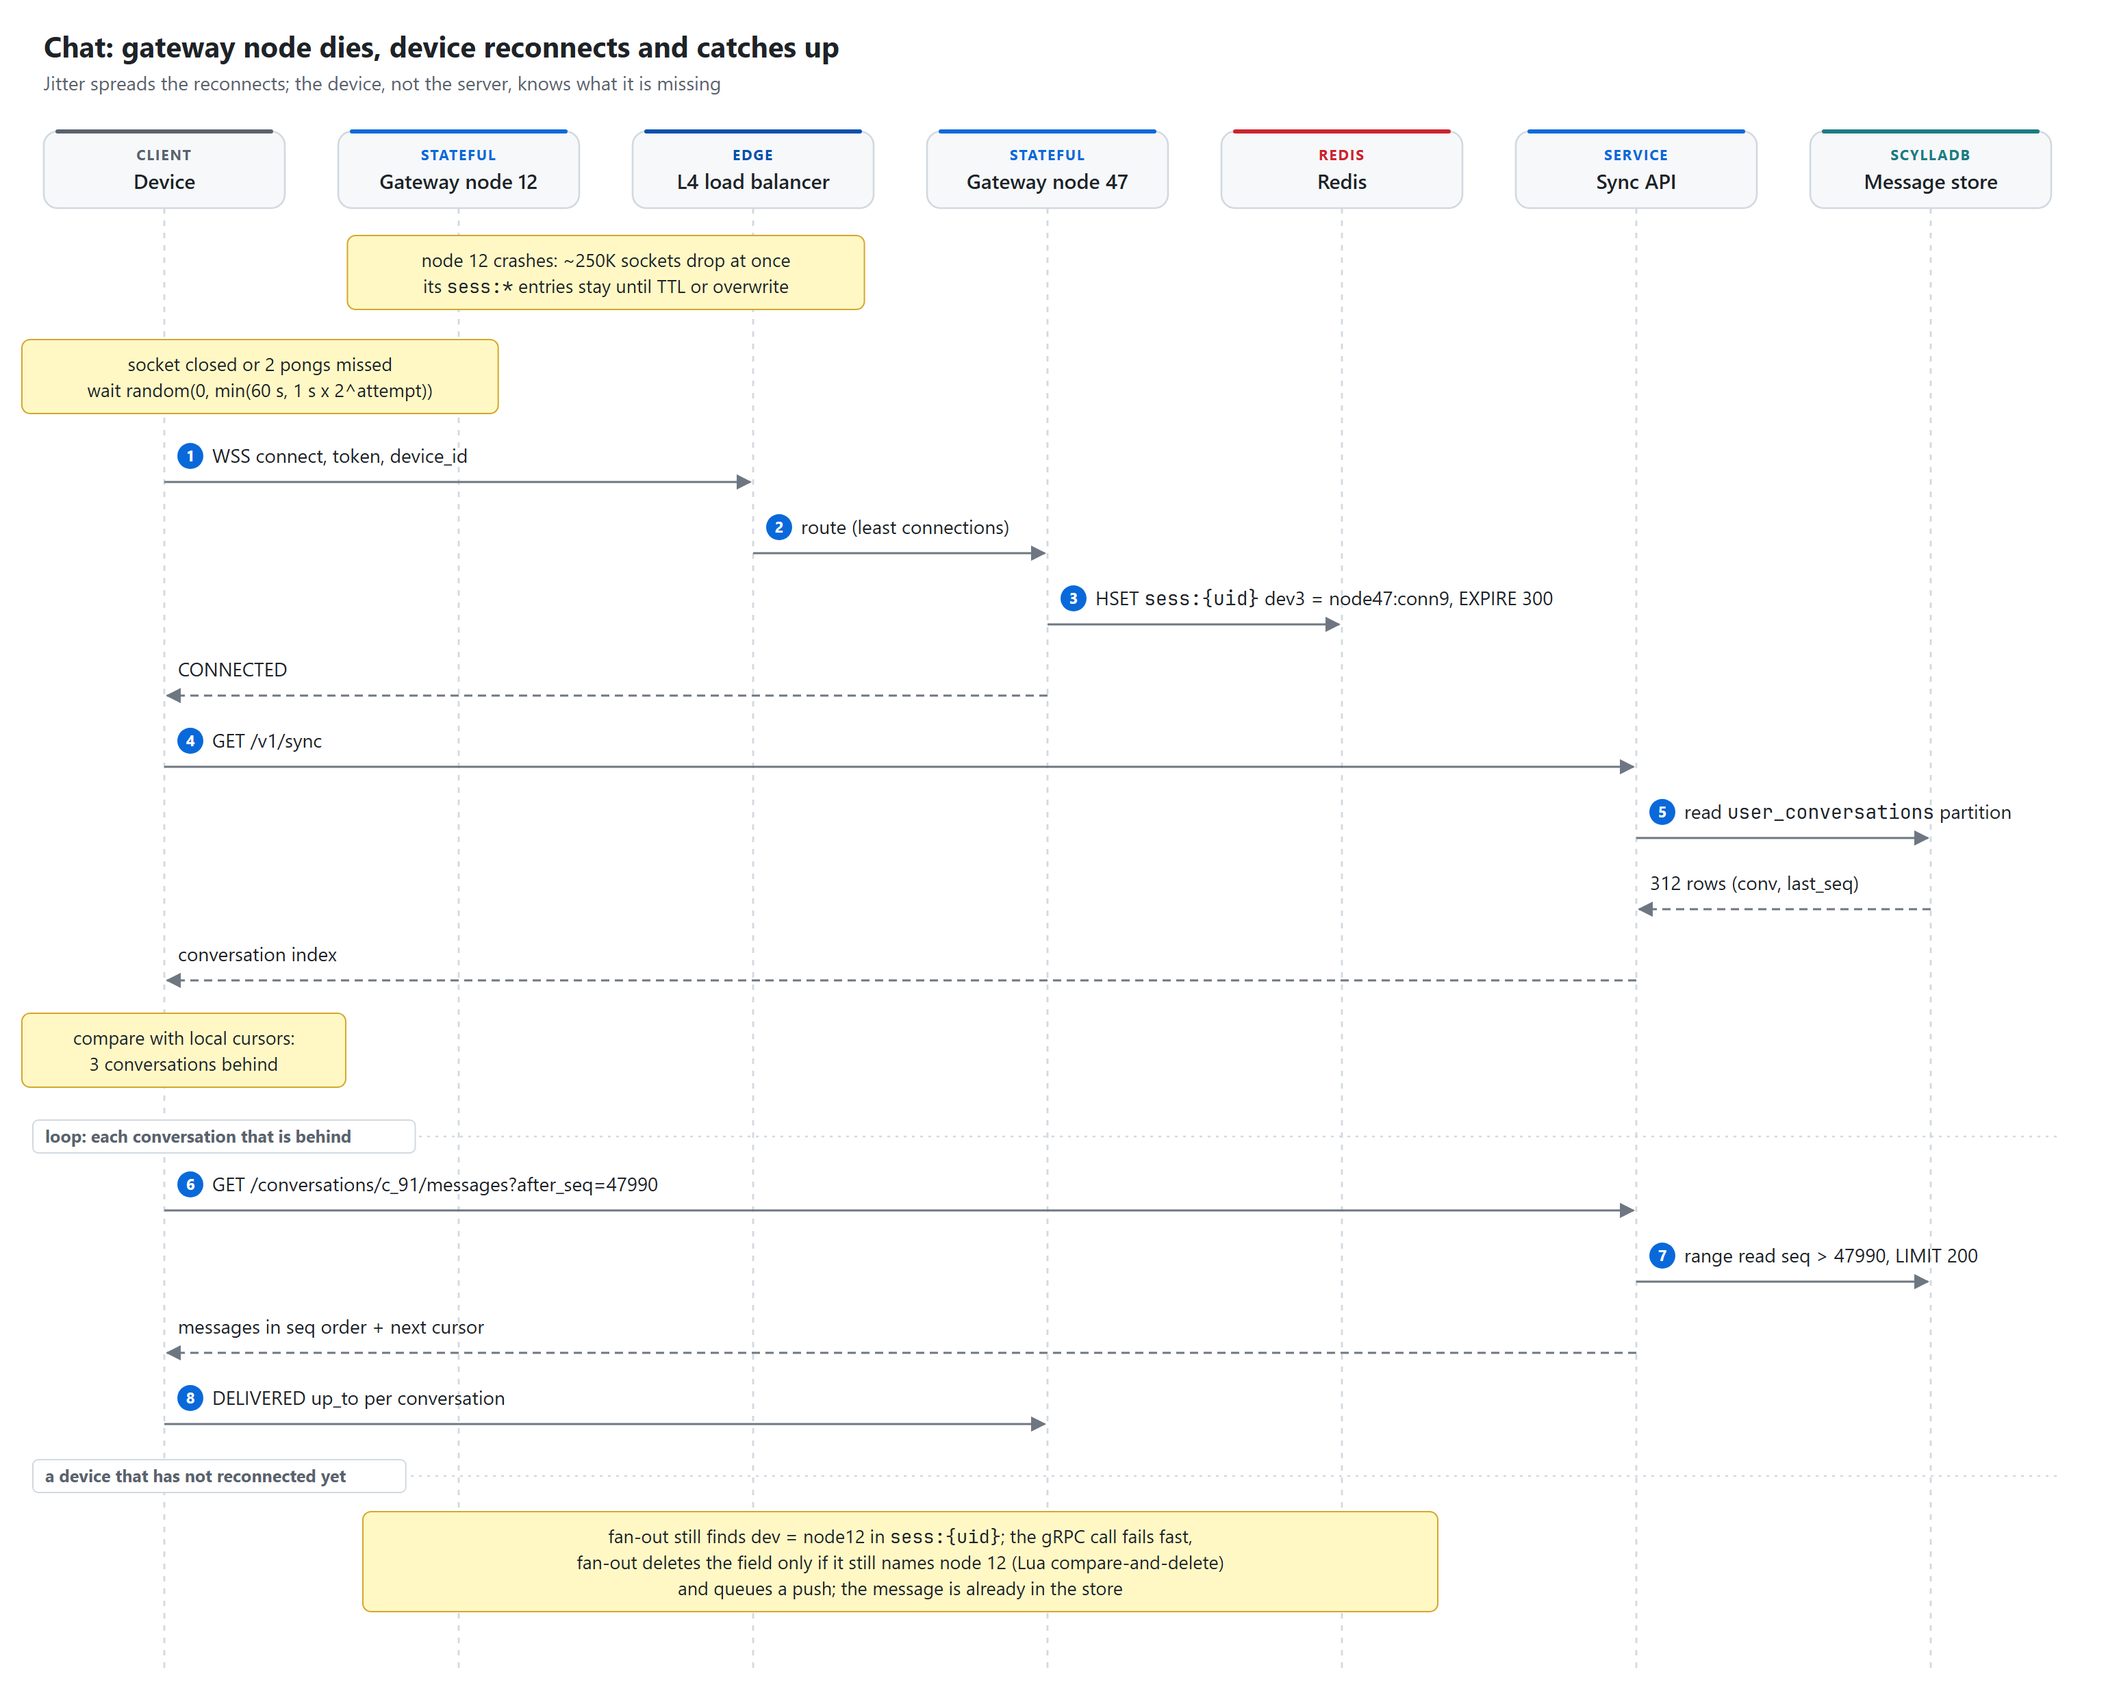
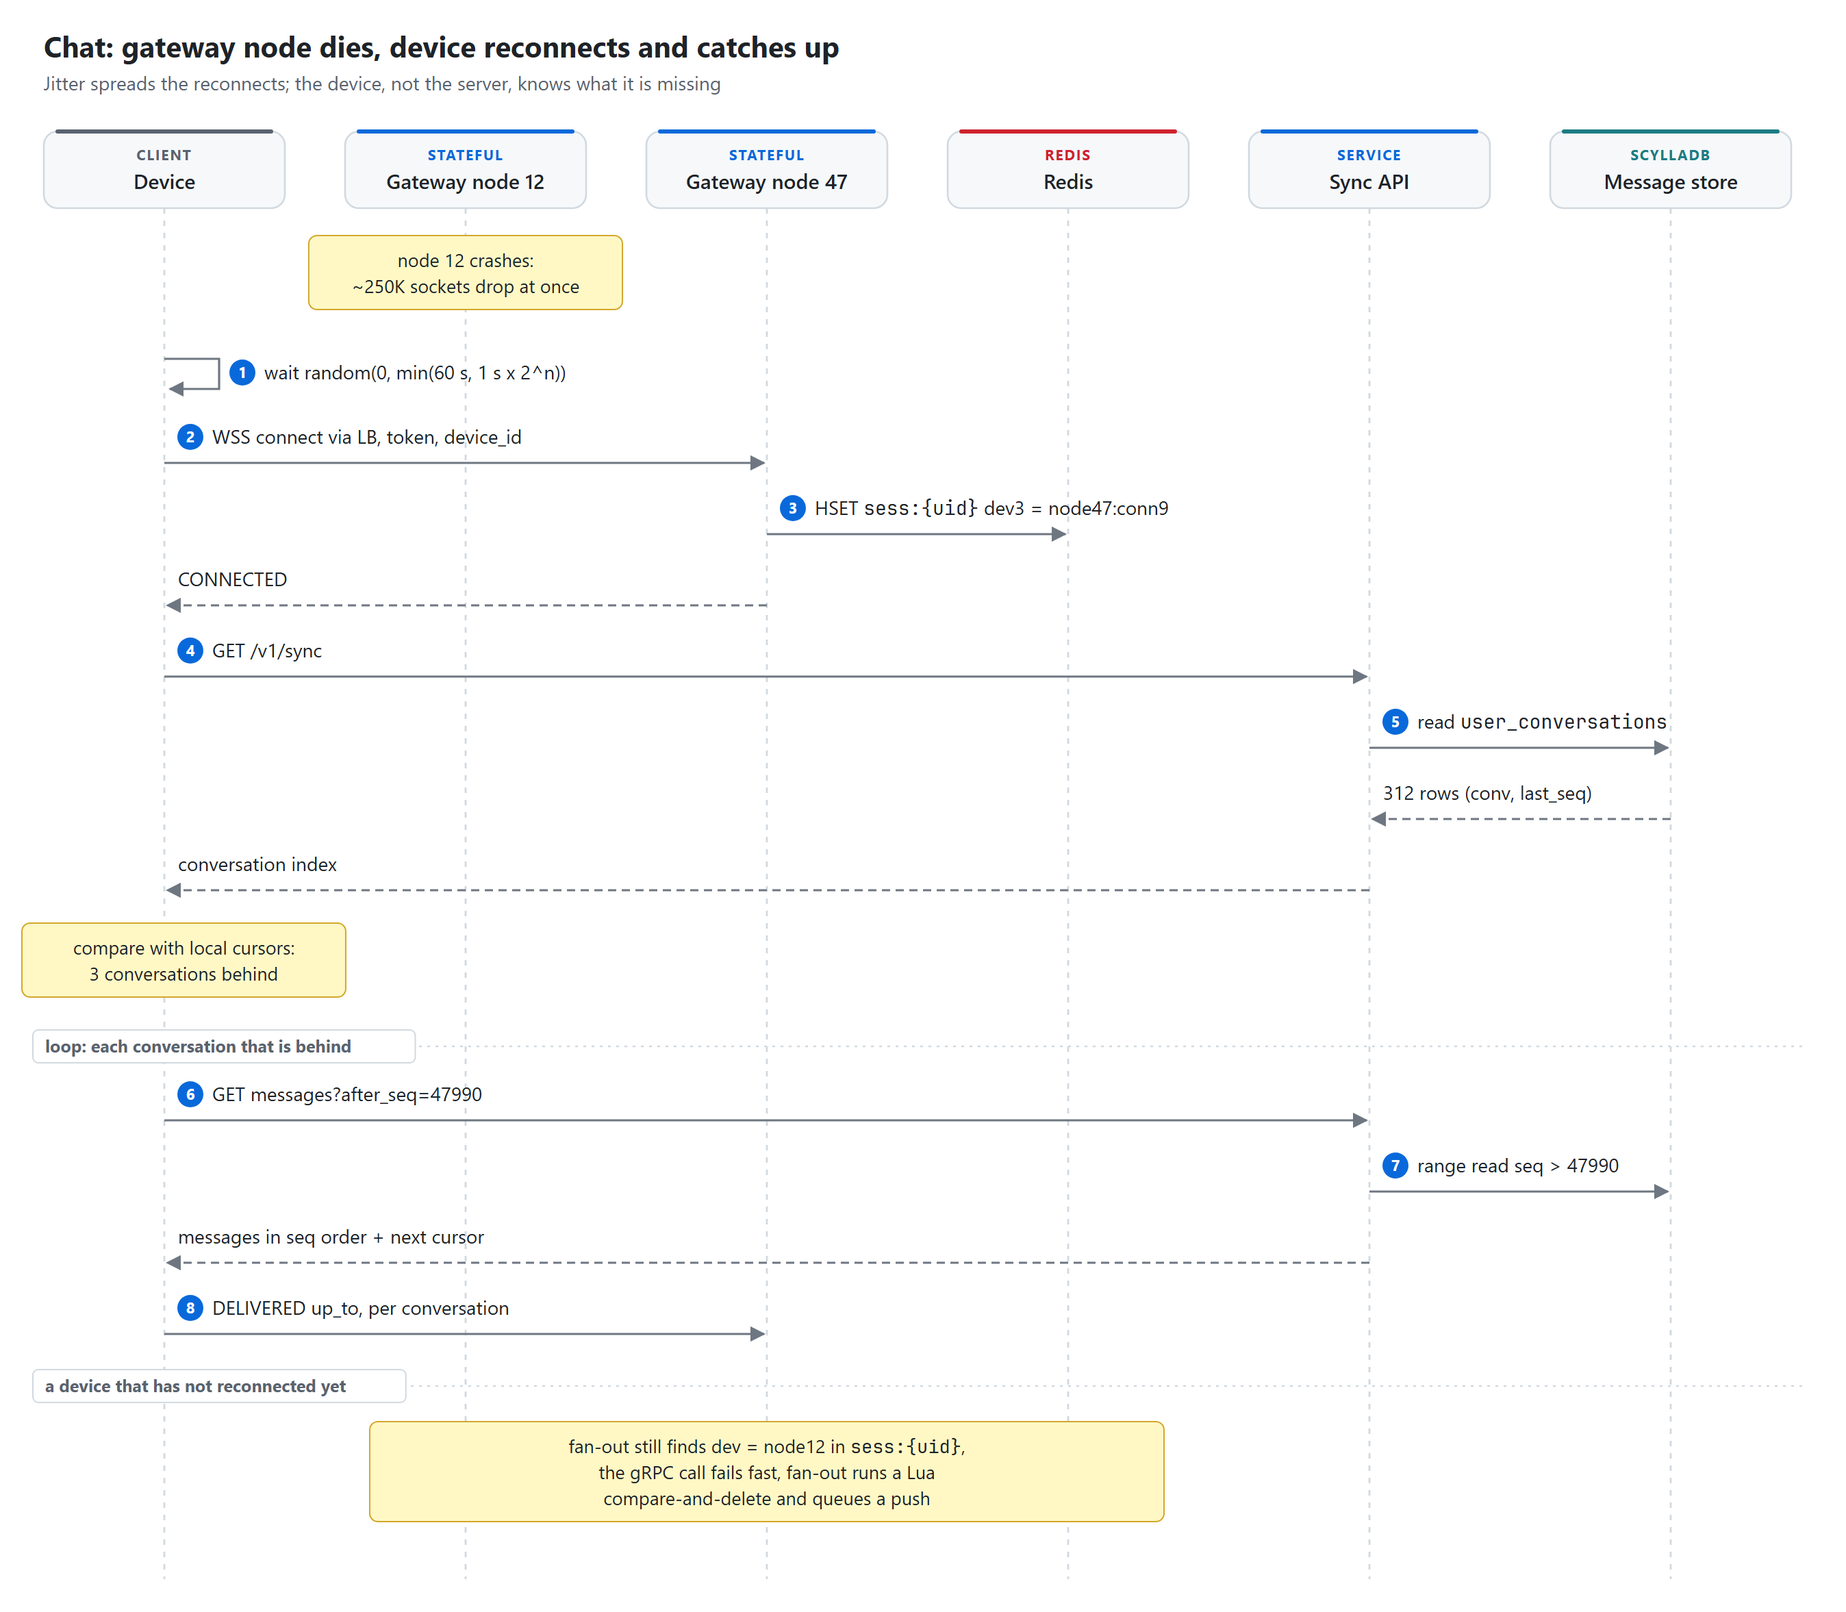
Draw the chat flows as sequence diagrams

diff --git a/designs/messaging-and-realtime/chat/README.md b/designs/messaging-and-realtime/chat/README.md
@@ -300,24 +300,30 @@ key and partition count, so the same Message service instance owns a conversatio
 
 ### 6.1 Send to an online and an offline recipient
 
+Two diagrams: the send path up to the store, then delivery.
+
 <picture>
   <source media="(prefers-color-scheme: dark)" srcset="diagrams/send-message-dark.png">
-  <img alt="Sequence: sender sends to gateway A, which produces to Kafka and acks with the offset as seq. The Message service dedupes and writes to ScyllaDB, then publishes to chat.persisted. Fan-out looks up members and sessions in Redis. Online: delivers through gateway B, the device acks delivery, and a receipt flows back. Offline: a push request wakes the app, which syncs after its cursor." src="diagrams/send-message-light.png">
+  <img alt="Sequence: the sender sends to gateway A, which checks the rate limit, produces to Kafka keyed by conversation and acks with the offset as seq. The Message service polls the partition, dedupes on client_msgs, writes to ScyllaDB at quorum, produces to chat.persisted and commits its offset. Fan-out consumes the event." src="diagrams/send-message-light.png">
 </picture>
 
-1. Device A sends `send` with a fresh `client_msg_id`. Gateway A checks the rate limit and that A is in
-   `members:{conv}` (a fast pre-check; the Message service makes the binding check).
-2. Gateway A produces to `chat.inbound` with key = conversation id, `acks=all`. Kafka returns offset 48211.
-3. Gateway A replies `ack seq 48211`. One tick: the message is now on two or more brokers.
-4. The Message service instance that owns the partition reads the record. It checks `client_msgs`; this is
-   a new id.
-5. It writes the `messages` row, the `client_msgs` row, `conversation_heads`, and one `user_conversations`
-   row per member (skipped for groups over 100), all at `LOCAL_QUORUM`, then produces to `chat.persisted`.
-6. A fan-out worker reads the event, gets the member list and each member's `sess:{uid}` in one pipeline.
-7. Online recipient: one gRPC batch per gateway node. Gateway B writes the `msg` frame with `prev_seq`.
-   Device B stores it, acks `delivered up_to 48211`, and the receipt reaches A as the second tick.
-8. Offline recipient (no session): fan-out produces to `push.requests`. A push worker collapses per
-   conversation and calls APNs or FCM. The app wakes, connects and runs the catch-up in 6.2.
+- **1-2.** Device A sends with a fresh `client_msg_id`; gateway A checks the rate limit and membership cache.
+- **3.** Gateway A produces to `chat.inbound`, key = conversation id, `acks=all`, and acks the device with the
+  offset as seq. One tick: the message is on two or more brokers.
+- **4-5.** The partition's owner reads the record and dedupes on `client_msgs`.
+- **6.** Quorum writes, in seq order for that conversation.
+- **7-9.** It publishes to `chat.persisted`, commits its input offset, and fan-out picks the event up.
+
+<picture>
+  <source media="(prefers-color-scheme: dark)" srcset="diagrams/deliver-message-dark.png">
+  <img alt="Sequence: fan-out reads the member list and session hashes from Redis. If the recipient is online it sends a gRPC batch to gateway B, which writes the frame; the device acks delivery and the gateway produces a receipt. If offline, fan-out produces a push request, a push worker collapses and calls APNs or FCM, and the woken app connects and syncs after its cursor." src="diagrams/deliver-message-light.png">
+</picture>
+
+- **1-2.** Fan-out gets the members and their `sess:{uid}` hashes in one pipeline.
+- **3-4.** Online: one gRPC batch per gateway node; gateway B writes the frame with `prev_seq`.
+- **5-6.** The device acks a watermark; the receipt becomes the sender's second tick.
+- **7-9.** Offline (no session): a push request, collapsed per conversation, sent to APNs or FCM.
+- **10.** The app wakes and runs the catch-up in 6.2.
 
 The sender's own other devices are members too, so they receive the message the same way.
 
@@ -325,25 +331,30 @@ The sender's own other devices are members too, so they receive the message the 
 
 <picture>
   <source media="(prefers-color-scheme: dark)" srcset="diagrams/reconnect-sync-dark.png">
-  <img alt="Sequence: a gateway node dies; the device waits a jittered backoff, reconnects through the load balancer to another node, which overwrites its entry in the Redis session hash. The device fetches its conversation index from the Sync API, compares it with local cursors, pulls messages after its cursor for each conversation that is behind, and acks delivery. A stale session entry for a device that has not reconnected is removed by fan-out with a compare-and-delete." src="diagrams/reconnect-sync-light.png">
+  <img alt="Sequence: a gateway node dies; the device waits a jittered backoff, reconnects to another node, which overwrites its entry in the Redis session hash. The device fetches its conversation index from the Sync API, compares it with local cursors, pulls messages after its cursor for each conversation that is behind, and acks delivery. A stale session entry for a device that has not reconnected is removed by fan-out with a compare-and-delete." src="diagrams/reconnect-sync-light.png">
 </picture>
 
-1. The socket closes (or two pongs are missed). The device waits `random(0, min(60 s, 1 s x 2^attempt))`.
-2. It reconnects; the new gateway overwrites `sess:{uid}[device] = node47:conn9`.
-3. `GET /v1/sync` returns the user's `user_conversations` partition: a few hundred `(conv, last_seq)` rows,
-   one partition read, ~10 KB. For `large` groups the API reads `conversation_heads` instead.
-4. The device compares each `last_seq` with its local cursor and, for each conversation that is behind,
-   pages `messages?after_seq=<cursor>` until `has_more` is false.
-5. It sends `delivered up_to` per conversation, which produces the sender-side receipts.
+- **1.** Socket closed or two pongs missed: wait a jittered backoff (7.5).
+- **2-3.** Reconnect through the load balancer; the new node overwrites the device's `sess:{uid}` field.
+- **4-5.** `GET /v1/sync` reads one `user_conversations` partition: a few hundred `(conv, last_seq)` rows,
+  ~10 KB. For `large` groups the API reads `conversation_heads` instead.
+- **6-7.** For each conversation behind the local cursor, page `messages?after_seq=<cursor>` until
+  `has_more` is false.
+- **8.** Ack `delivered up_to` per conversation, which produces the sender-side receipts.
 
 ### 6.3 Media
 
-1. `POST /v1/media/uploads` returns a pre-signed S3 POST valid for 15 minutes, with a size condition.
-2. The client uploads the (client-encrypted, if E2E) file straight to S3. The API is not in the byte path.
-3. The client sends a normal `send` with `kind = media`, `media_id`, and a ~2 KB blurred thumbnail inline,
-   so the chat renders before the download.
-4. Recipients call `GET /v1/media/{id}`, get a 302 to a short-lived signed CDN URL, and the CDN pulls from
-   S3 once per edge. S3 lifecycle moves objects older than 30 days to an infrequent-access tier.
+<picture>
+  <source media="(prefers-color-scheme: dark)" srcset="diagrams/media-upload-dark.png">
+  <img alt="Sequence: the sender asks the Sync API for an upload; the API signs an S3 POST policy with a size condition and returns a media id and URL. The sender uploads straight to S3, then sends a normal chat message with the media id and a thumbnail. The recipient gets the message, asks the API for the media, gets a 302 to a signed CDN URL, and downloads from the CDN, which fetches from S3 on an edge miss." src="diagrams/media-upload-light.png">
+</picture>
+
+- **1-2.** The API signs an S3 POST policy (15 minutes, `content-length-range`) without touching S3.
+- **3.** The client uploads straight to S3 (encrypted first, if E2E). The API is never in the byte path.
+- **4-5.** A normal send with `kind = media`, `media_id` and a ~2 KB blurred thumbnail, so the chat renders
+  before the download.
+- **6-8.** The recipient gets a 302 to a 5-minute signed CDN URL; the CDN pulls from S3 once per edge.
+  S3 lifecycle moves objects older than 30 days to an infrequent-access tier.
 
 ## 7. Deep dives
 
@@ -415,13 +426,18 @@ push badge shows unread conversations. The partition count is frozen. Two Kafka 
 The unit of delivery is the device, the unit of receipts is the user, and the unit of storage is the
 conversation.
 
-- **Online devices** get a frame from fan-out. Each `sess:{uid}` field is one device, so a user on phone
-  and laptop gets two frames, possibly through two gateway nodes.
-- **Offline devices** get nothing pushed through the socket path and nothing queued for them. One push per
-  user (not per device) goes to APNs/FCM, collapsed per conversation and rate limited to one per 10 s.
-  The payload carries the conversation id and sender name, never the body.
-- **Every device catches up the same way**: sync index, then ranges after its own cursor (6.2). There is
-  no per-device inbox to fill, drain or lose.
+<picture>
+  <source media="(prefers-color-scheme: dark)" srcset="diagrams/multi-device-dark.png">
+  <img alt="Sequence: fan-out reads the user's session hash, finds the phone on node 47 and the laptop on node 81, and delivers to both; the tablet has no field and gets nothing. No push is sent because the user has online devices. The phone acks delivery and the laptop acks read as watermarks. Later the tablet connects and syncs after its own cursor." src="diagrams/multi-device-light.png">
+</picture>
+
+- **1-4.** Each `sess:{uid}` field is one device. The phone and laptop get a frame each, through two nodes.
+  The tablet has no field, so nothing is pushed or queued for it.
+- **No push** while any device of the user is online: they are reading there. When `sess:{uid}` is empty,
+  one push per user goes to APNs/FCM, collapsed per conversation, at most one per 10 s, with the
+  conversation id and sender name, never the body.
+- **5-6.** Receipts arrive as watermarks from whichever device saw the message (below).
+- **7.** The tablet catches up like any device (6.2). There is no per-device inbox to fill, drain or lose.
 
 A per-device offline queue (store-and-forward, delete on ack) multiplies writes by the device count and
 makes a new device a history copy job. Pulling after a cursor makes both the same code as "offline".
@@ -442,17 +458,22 @@ day, around 35M/s, for a dot most people never look at.
 
 What we do instead:
 
-1. **Online is derived, not stored.** A user is online if `sess:{uid}` has a field. No extra writes.
-2. **Subscribe only to what is on screen.** When a chat opens, the client sends `presence_sub` for the peer
-   (or up to 20 members of a small group). The gateway reads the current state once and does `SSUBSCRIBE
-   pres:{uid}` on Redis sharded pub/sub. It unsubscribes when the chat closes.
-3. **Publish only real changes, debounced.** A gateway publishes `online` when a user's first device
-   connects and `offline` 10 s after the last one disconnects, so app switching does not flap. It writes
-   `lastseen:{uid}` at the same moment.
-4. **Typing** uses the same channels with a 5 s client-side expiry, never stored. Disabled in groups over
-   50 members.
-5. **Privacy** (`last_seen_privacy`) is checked at subscribe time, so a hidden user never has a channel
-   anyone can read.
+<picture>
+  <source media="(prefers-color-scheme: dark)" srcset="diagrams/presence-dark.png">
+  <img alt="Sequence: the viewer opens a chat and subscribes to the contact's presence; gateway A checks privacy, reads the session hash and last seen from Redis, subscribes to the contact's sharded pub/sub channel and returns offline with last seen. When the contact connects, gateway B writes the session and publishes online, which reaches gateway A and the viewer. Typing travels the same way without being stored. When the contact's last socket closes, gateway B waits 10 seconds, writes last seen and publishes offline. When the viewer closes the chat, gateway A unsubscribes." src="diagrams/presence-light.png">
+</picture>
+
+- **Online is derived, not stored.** A user is online if `sess:{uid}` has a field. No extra writes.
+- **Subscribe only to what is on screen (1-5, 18).** When a chat opens, the client sends `presence_sub`
+  for the peer (or up to 20 members of a small group). The gateway reads the current state once and does
+  `SSUBSCRIBE pres:{uid}` on Redis sharded pub/sub. It unsubscribes when the chat closes.
+- **Publish only real changes, debounced (6-9, 14-17).** A gateway publishes `online` when a user's first
+  device connects and `offline` 10 s after the last one disconnects, so app switching does not flap. It
+  writes `lastseen:{uid}` at the same moment.
+- **Typing (10-13)** uses the same channels with a 5 s client-side expiry, never stored. Disabled in
+  groups over 50 members.
+- **Privacy (2)**: `last_seen_privacy` is checked at subscribe time, so a hidden user never has a channel
+  anyone can read.
 
 At ~20% of online users with a chat open, that is ~30M subscriptions and a change rate in the tens of
 thousands per second. A gateway node crash leaves its users "online" for up to the 300 s registry TTL;
@@ -462,6 +483,16 @@ for a presence dot that is acceptable, and the stale fan-out case is handled in 
 
 A message to a 500-member group is one stored row, 500 member lookups, ~280 online devices and up to 500
 index writes. Ingest is cheap; fan-out is where the cost is.
+
+<picture>
+  <source media="(prefers-color-scheme: dark)" srcset="diagrams/group-fanout-dark.png">
+  <img alt="Sequence comparing a 40-member and a 480-member group. Small group: the Message service writes the message row, the heads row and 40 per-member index rows, produces to chat.persisted, and fan-out uses its local member cache, one Redis pipeline and about 25 gRPC calls. Large group: only the message and heads rows are written; fan-out does one 480-entry Redis pipeline and about 240 coalesced calls, with typing, pushed read receipts and loud pushes turned off. A member_added system message gets a seq and switches the member list from that seq on." src="diagrams/group-fanout-light.png">
+</picture>
+
+- **1-7.** Small group: per-member index rows, then local member list, one Redis pipeline, one call per node.
+- **8-12.** Large group: no per-member rows; the same fan-out shape with more nodes and coalescing.
+- **13-15.** A membership change is a message with its own seq, so every worker switches lists at the same
+  point.
 
 - **One stored copy.** Messages are stored per conversation, never per recipient. Fan-out moves pointers
   and frames, not message copies.
